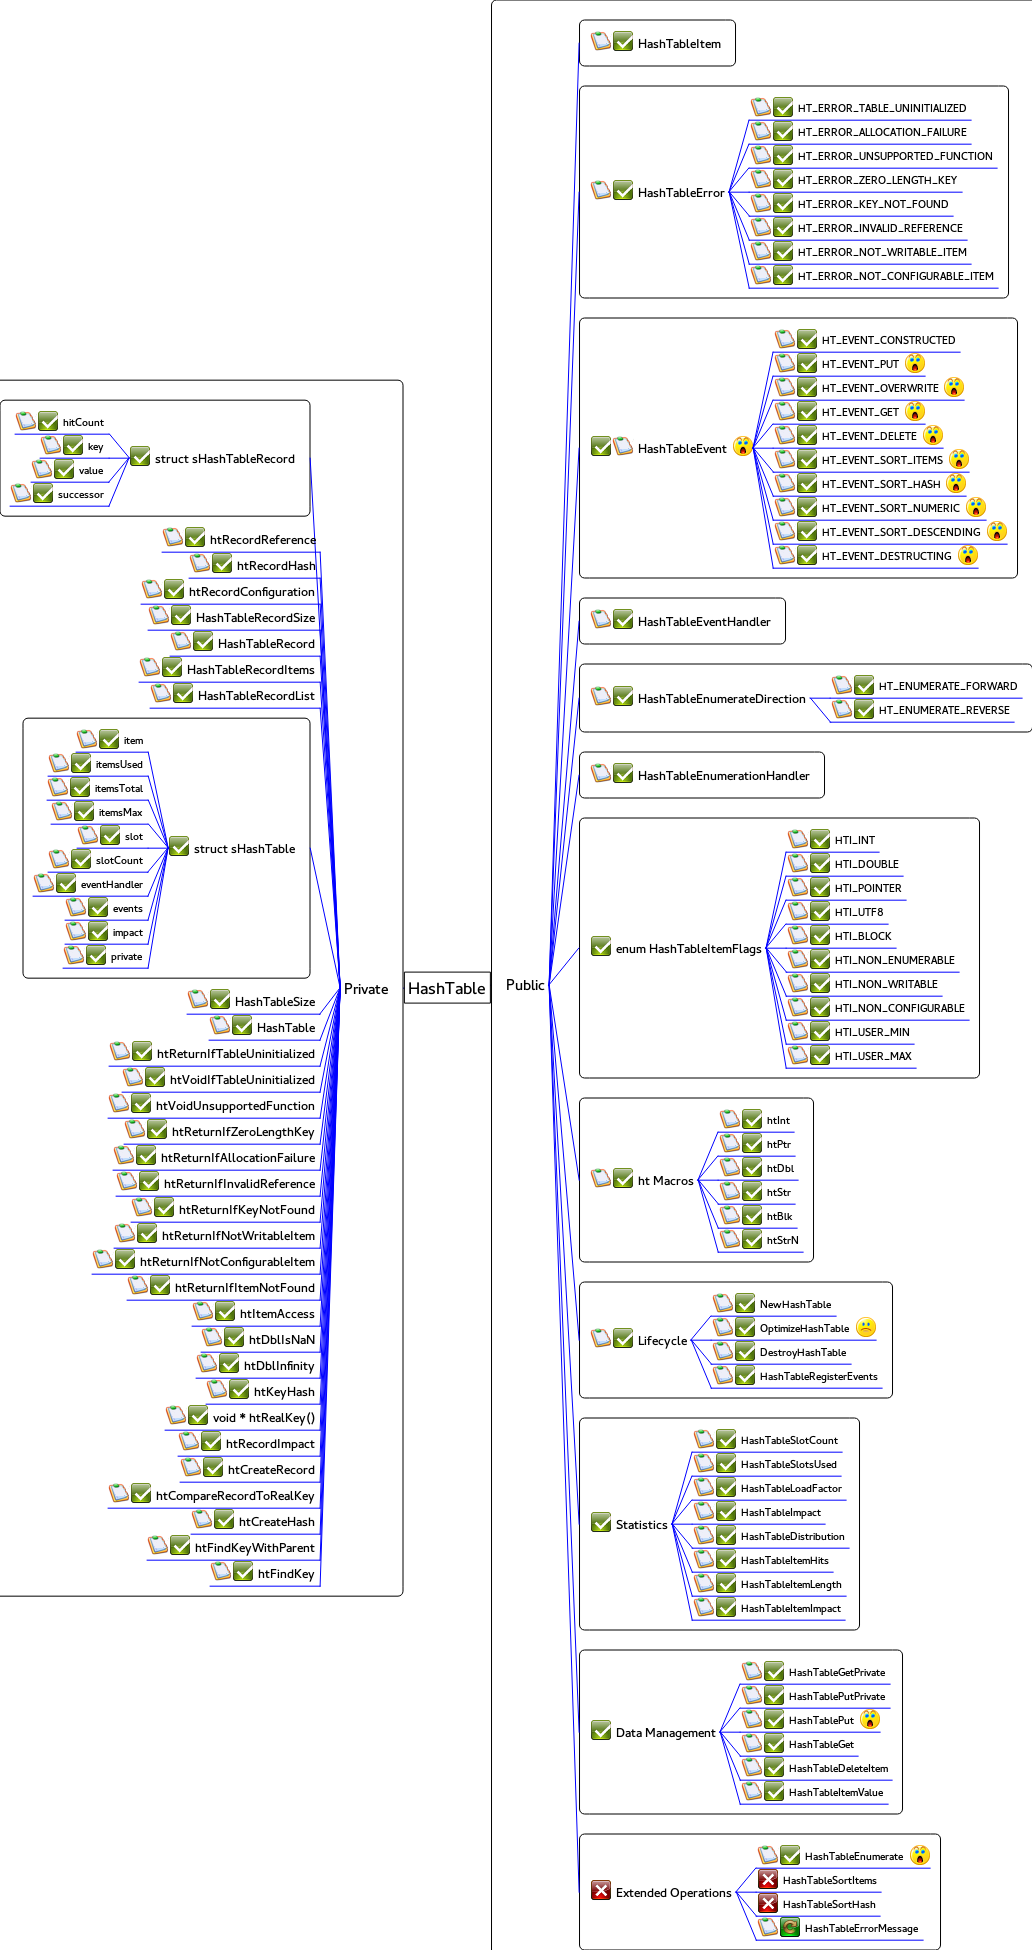
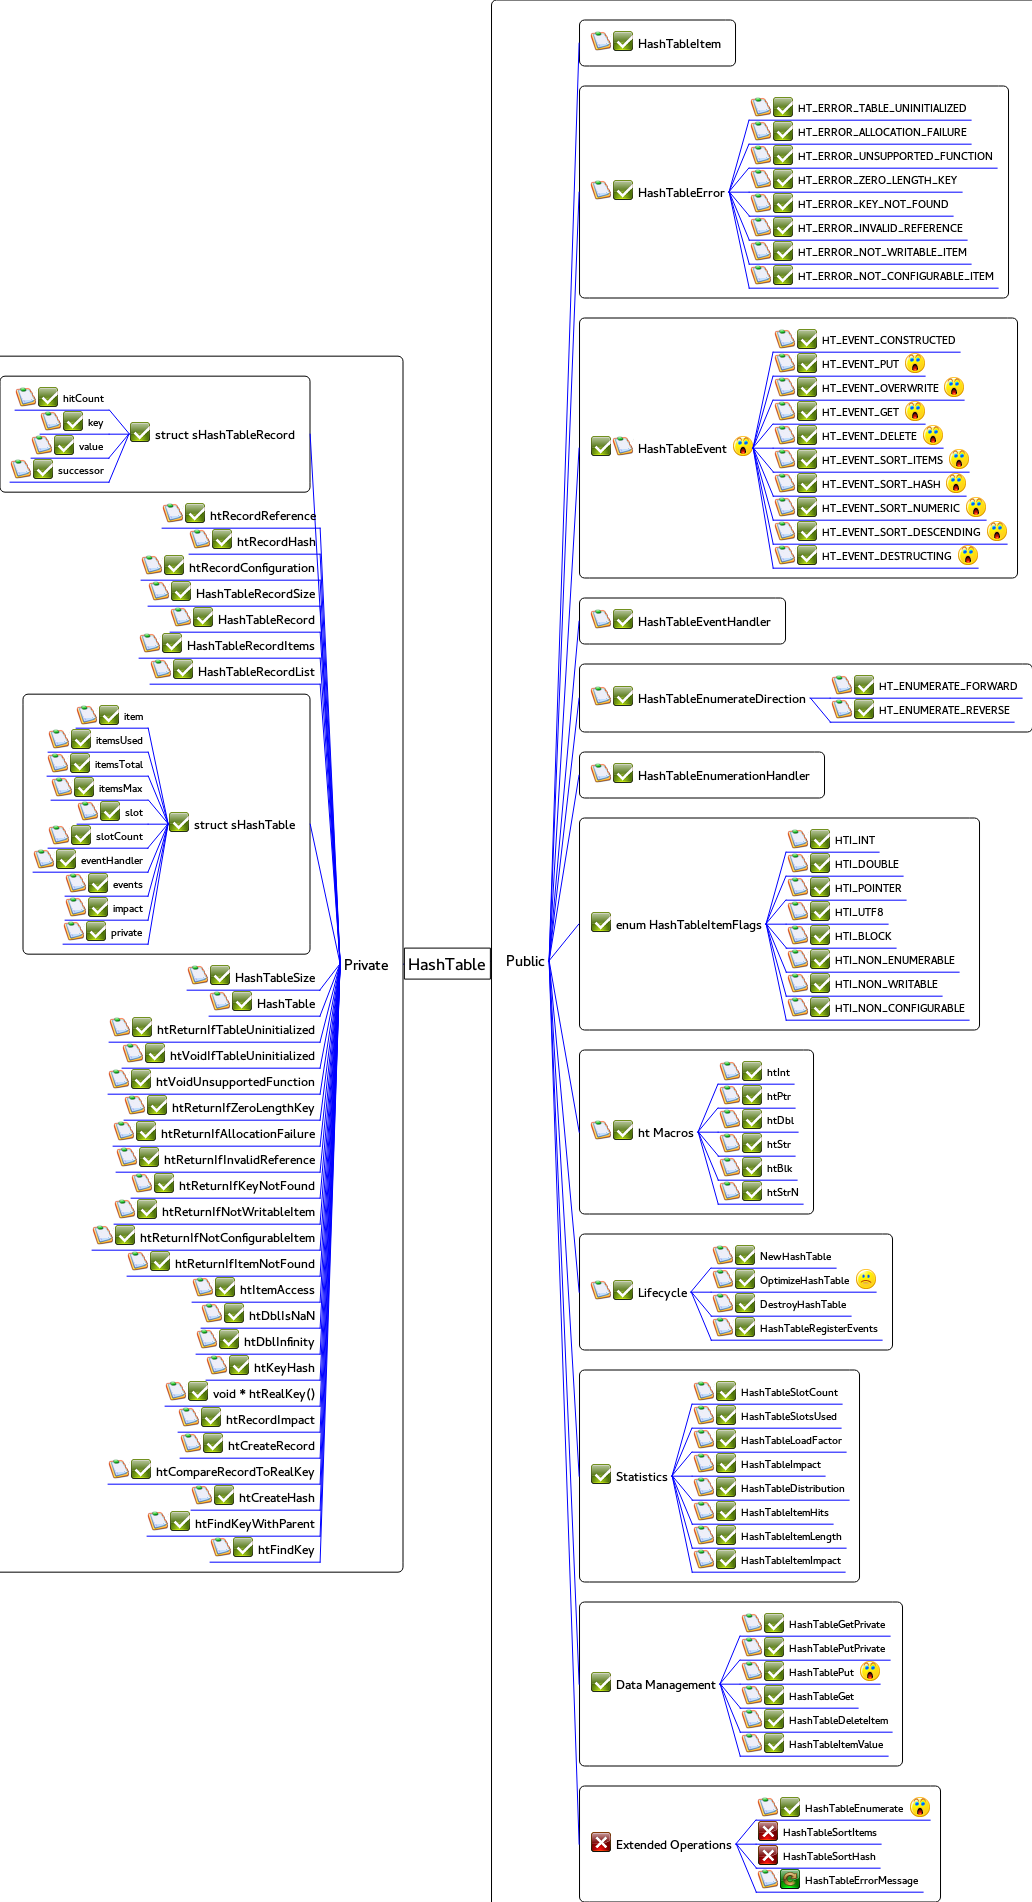
Synchronized HashTableItem flags with documentation

diff --git a/HashTable.html b/HashTable.html
@@ -179,16 +179,6 @@ size_t HTI_NON_WRITABLE<br/><br/>Do not overwrite.<br/>
 size_t HTI_NON_CONFIGURABLE<br/><br/>Do not delete, do not modify enumerable or configurable.<br/>
 </td></tr></table>
 </li>
-<li><span class='vym-branch3'  id='mc:0,bo:0,bo:6,bo:8'>HTI_USER_MIN</span>
-<table class="vym-note"><tr><td>
-size_t HTI_USER_MIN<br/><br/>The first available flag for implementation defiend use.<br/>
-</td></tr></table>
-</li>
-<li><span class='vym-branch3'  id='mc:0,bo:0,bo:6,bo:9'>HTI_USER_MAX</span>
-<table class="vym-note"><tr><td>
-size_t HTI_USER_MAX<br/><br/>The last available flag for implementation defined use.<br/>
-</td></tr></table>
-</li>
 </ul>
 </li>
 <li><span class='vym-branch2'  id='mc:0,bo:0,bo:7'>ht Macros</span>
@@ -579,8 +569,8 @@ HashTableRecord htFindKey(HashTable table, size_t keyLength, void * realKey)<br/
 </li>
 </ul>
 <map name='imagemap'>
-  <area shape='rect' coords='404.38,972.107,490.38,1003.11' href='#mc:0'>
-  <area shape='rect' coords='501.529,970.5,549.529,999.5' href='#mc:0,bo:0'>
+  <area shape='rect' coords='404.38,948.107,490.38,979.107' href='#mc:0'>
+  <area shape='rect' coords='501.529,946.5,549.529,975.5' href='#mc:0,bo:0'>
   <area shape='rect' coords='633.529,30,725.529,56' href='#mc:0,bo:0,bo:0'>
   <area shape='rect' coords='633.529,179,729.529,205' href='#mc:0,bo:0,bo:1'>
   <area shape='rect' coords='793.529,96,971.529,120' href='#mc:0,bo:0,bo:1,bo:0'>
@@ -607,7 +597,7 @@ HashTableRecord htFindKey(HashTable table, size_t keyLength, void * realKey)<br/
   <area shape='rect' coords='874.529,674,1022.53,698' href='#mc:0,bo:0,bo:4,bo:0'>
   <area shape='rect' coords='874.529,698,1014.53,722' href='#mc:0,bo:0,bo:4,bo:1'>
   <area shape='rect' coords='633.529,762,814.529,788' href='#mc:0,bo:0,bo:5'>
-  <area shape='rect' coords='611.529,935,766.529,961' href='#mc:0,bo:0,bo:6'>
+  <area shape='rect' coords='611.529,911,766.529,937' href='#mc:0,bo:0,bo:6'>
   <area shape='rect' coords='830.529,828,879.529,852' href='#mc:0,bo:0,bo:6,bo:0'>
   <area shape='rect' coords='830.529,852,903.529,876' href='#mc:0,bo:0,bo:6,bo:1'>
   <area shape='rect' coords='830.529,876,906.529,900' href='#mc:0,bo:0,bo:6,bo:2'>
@@ -616,88 +606,86 @@ HashTableRecord htFindKey(HashTable table, size_t keyLength, void * realKey)<br/
   <area shape='rect' coords='830.529,948,959.529,972' href='#mc:0,bo:0,bo:6,bo:5'>
   <area shape='rect' coords='830.529,972,942.529,996' href='#mc:0,bo:0,bo:6,bo:6'>
   <area shape='rect' coords='830.529,996,969.529,1020' href='#mc:0,bo:0,bo:6,bo:7'>
-  <area shape='rect' coords='830.529,1020,914.529,1044' href='#mc:0,bo:0,bo:6,bo:8'>
-  <area shape='rect' coords='830.529,1044,916.529,1068' href='#mc:0,bo:0,bo:6,bo:9'>
-  <area shape='rect' coords='633.529,1167,698.529,1193' href='#mc:0,bo:0,bo:7'>
-  <area shape='rect' coords='762.529,1108,794.529,1132' href='#mc:0,bo:0,bo:7,bo:0'>
-  <area shape='rect' coords='762.529,1132,795.529,1156' href='#mc:0,bo:0,bo:7,bo:1'>
-  <area shape='rect' coords='762.529,1156,798.529,1180' href='#mc:0,bo:0,bo:7,bo:2'>
-  <area shape='rect' coords='762.529,1180,795.529,1204' href='#mc:0,bo:0,bo:7,bo:3'>
-  <area shape='rect' coords='762.529,1204,797.529,1228' href='#mc:0,bo:0,bo:7,bo:4'>
-  <area shape='rect' coords='762.529,1228,803.529,1252' href='#mc:0,bo:0,bo:7,bo:5'>
-  <area shape='rect' coords='633.529,1327,691.529,1353' href='#mc:0,bo:0,bo:8'>
-  <area shape='rect' coords='755.529,1292,836.529,1316' href='#mc:0,bo:0,bo:8,bo:0'>
-  <area shape='rect' coords='755.529,1316,854.529,1340' href='#mc:0,bo:0,bo:8,bo:1'>
-  <area shape='rect' coords='755.529,1340,851.529,1364' href='#mc:0,bo:0,bo:8,bo:2'>
-  <area shape='rect' coords='755.529,1364,882.529,1388' href='#mc:0,bo:0,bo:8,bo:3'>
-  <area shape='rect' coords='611.529,1511,672.529,1537' href='#mc:0,bo:0,bo:9'>
-  <area shape='rect' coords='736.529,1428,842.529,1452' href='#mc:0,bo:0,bo:9,bo:0'>
-  <area shape='rect' coords='736.529,1452,841.529,1476' href='#mc:0,bo:0,bo:9,bo:1'>
-  <area shape='rect' coords='736.529,1476,846.529,1500' href='#mc:0,bo:0,bo:9,bo:2'>
-  <area shape='rect' coords='736.529,1500,825.529,1524' href='#mc:0,bo:0,bo:9,bo:3'>
-  <area shape='rect' coords='736.529,1524,849.529,1548' href='#mc:0,bo:0,bo:9,bo:4'>
-  <area shape='rect' coords='736.529,1548,833.529,1572' href='#mc:0,bo:0,bo:9,bo:5'>
-  <area shape='rect' coords='736.529,1572,846.529,1596' href='#mc:0,bo:0,bo:9,bo:6'>
-  <area shape='rect' coords='736.529,1596,845.529,1620' href='#mc:0,bo:0,bo:9,bo:7'>
-  <area shape='rect' coords='611.529,1719,720.529,1745' href='#mc:0,bo:0,bo:10'>
-  <area shape='rect' coords='784.529,1660,890.529,1684' href='#mc:0,bo:0,bo:10,bo:0'>
-  <area shape='rect' coords='784.529,1684,890.529,1708' href='#mc:0,bo:0,bo:10,bo:1'>
-  <area shape='rect' coords='784.529,1708,858.529,1732' href='#mc:0,bo:0,bo:10,bo:2'>
-  <area shape='rect' coords='784.529,1732,858.529,1756' href='#mc:0,bo:0,bo:10,bo:3'>
-  <area shape='rect' coords='784.529,1756,892.529,1780' href='#mc:0,bo:0,bo:10,bo:4'>
-  <area shape='rect' coords='784.529,1780,888.529,1804' href='#mc:0,bo:0,bo:10,bo:5'>
-  <area shape='rect' coords='611.529,1879,736.529,1905' href='#mc:0,bo:0,bo:11'>
-  <area shape='rect' coords='800.529,1844,908.529,1868' href='#mc:0,bo:0,bo:11,bo:0'>
-  <area shape='rect' coords='778.529,1868,881.529,1892' href='#mc:0,bo:0,bo:11,bo:1'>
-  <area shape='rect' coords='778.529,1892,880.529,1916' href='#mc:0,bo:0,bo:11,bo:2'>
-  <area shape='rect' coords='800.529,1916,923.529,1940' href='#mc:0,bo:0,bo:11,bo:3'>
-  <area shape='rect' coords='340,973.664,393,1002.66' href='#mc:0,bo:1'>
-  <area shape='rect' coords='151,445.164,300,471.164' href='#mc:0,bo:1,bo:0'>
-  <area shape='rect' coords='59,410.164,109,434.164' href='#mc:0,bo:1,bo:0,bo:0'>
-  <area shape='rect' coords='84,434.164,109,458.164' href='#mc:0,bo:1,bo:0,bo:1'>
-  <area shape='rect' coords='75,458.164,109,482.164' href='#mc:0,bo:1,bo:0,bo:2'>
-  <area shape='rect' coords='54,482.164,109,506.164' href='#mc:0,bo:1,bo:0,bo:3'>
-  <area shape='rect' coords='206,526.164,320,552.164' href='#mc:0,bo:1,bo:1'>
-  <area shape='rect' coords='233,552.164,320,578.164' href='#mc:0,bo:1,bo:2'>
-  <area shape='rect' coords='185,578.164,320,604.164' href='#mc:0,bo:1,bo:3'>
-  <area shape='rect' coords='192,604.164,320,630.164' href='#mc:0,bo:1,bo:4'>
-  <area shape='rect' coords='214,630.164,320,656.164' href='#mc:0,bo:1,bo:5'>
-  <area shape='rect' coords='183,656.164,320,682.164' href='#mc:0,bo:1,bo:6'>
-  <area shape='rect' coords='194,682.164,320,708.164' href='#mc:0,bo:1,bo:7'>
-  <area shape='rect' coords='190,835.164,300,861.164' href='#mc:0,bo:1,bo:8'>
-  <area shape='rect' coords='120,728.164,148,752.164' href='#mc:0,bo:1,bo:8,bo:0'>
-  <area shape='rect' coords='92,752.164,148,776.164' href='#mc:0,bo:1,bo:8,bo:1'>
-  <area shape='rect' coords='91,776.164,148,800.164' href='#mc:0,bo:1,bo:8,bo:2'>
-  <area shape='rect' coords='95,800.164,148,824.164' href='#mc:0,bo:1,bo:8,bo:3'>
-  <area shape='rect' coords='121,824.164,148,848.164' href='#mc:0,bo:1,bo:8,bo:4'>
-  <area shape='rect' coords='92,848.164,148,872.164' href='#mc:0,bo:1,bo:8,bo:5'>
-  <area shape='rect' coords='77,872.164,148,896.164' href='#mc:0,bo:1,bo:8,bo:6'>
-  <area shape='rect' coords='109,896.164,148,920.164' href='#mc:0,bo:1,bo:8,bo:7'>
-  <area shape='rect' coords='109,920.164,148,944.164' href='#mc:0,bo:1,bo:8,bo:8'>
-  <area shape='rect' coords='107,944.164,148,968.164' href='#mc:0,bo:1,bo:8,bo:9'>
-  <area shape='rect' coords='231,988.164,320,1014.16' href='#mc:0,bo:1,bo:9'>
-  <area shape='rect' coords='253,1014.16,320,1040.16' href='#mc:0,bo:1,bo:10'>
-  <area shape='rect' coords='153,1040.16,320,1066.16' href='#mc:0,bo:1,bo:11'>
-  <area shape='rect' coords='166,1066.16,320,1092.16' href='#mc:0,bo:1,bo:12'>
-  <area shape='rect' coords='152,1092.16,320,1118.16' href='#mc:0,bo:1,bo:13'>
-  <area shape='rect' coords='168,1118.16,320,1144.16' href='#mc:0,bo:1,bo:14'>
-  <area shape='rect' coords='157,1144.16,320,1170.16' href='#mc:0,bo:1,bo:15'>
-  <area shape='rect' coords='160,1170.16,320,1196.16' href='#mc:0,bo:1,bo:16'>
-  <area shape='rect' coords='175,1196.16,320,1222.16' href='#mc:0,bo:1,bo:17'>
-  <area shape='rect' coords='158,1222.16,320,1248.16' href='#mc:0,bo:1,bo:18'>
-  <area shape='rect' coords='136,1248.16,320,1274.16' href='#mc:0,bo:1,bo:19'>
-  <area shape='rect' coords='171,1274.16,320,1300.16' href='#mc:0,bo:1,bo:20'>
-  <area shape='rect' coords='236,1300.16,320,1326.16' href='#mc:0,bo:1,bo:21'>
-  <area shape='rect' coords='245,1326.16,320,1352.16' href='#mc:0,bo:1,bo:22'>
-  <area shape='rect' coords='240,1352.16,320,1378.16' href='#mc:0,bo:1,bo:23'>
-  <area shape='rect' coords='250,1378.16,320,1404.16' href='#mc:0,bo:1,bo:24'>
-  <area shape='rect' coords='209,1404.16,320,1430.16' href='#mc:0,bo:1,bo:25'>
-  <area shape='rect' coords='222,1430.16,320,1456.16' href='#mc:0,bo:1,bo:26'>
-  <area shape='rect' coords='224,1456.16,320,1482.16' href='#mc:0,bo:1,bo:27'>
-  <area shape='rect' coords='152,1482.16,320,1508.16' href='#mc:0,bo:1,bo:28'>
-  <area shape='rect' coords='235,1508.16,320,1534.16' href='#mc:0,bo:1,bo:29'>
-  <area shape='rect' coords='191,1534.16,320,1560.16' href='#mc:0,bo:1,bo:30'>
-  <area shape='rect' coords='254,1560.16,320,1586.16' href='#mc:0,bo:1,bo:31'>
+  <area shape='rect' coords='633.529,1119,698.529,1145' href='#mc:0,bo:0,bo:7'>
+  <area shape='rect' coords='762.529,1060,794.529,1084' href='#mc:0,bo:0,bo:7,bo:0'>
+  <area shape='rect' coords='762.529,1084,795.529,1108' href='#mc:0,bo:0,bo:7,bo:1'>
+  <area shape='rect' coords='762.529,1108,798.529,1132' href='#mc:0,bo:0,bo:7,bo:2'>
+  <area shape='rect' coords='762.529,1132,795.529,1156' href='#mc:0,bo:0,bo:7,bo:3'>
+  <area shape='rect' coords='762.529,1156,797.529,1180' href='#mc:0,bo:0,bo:7,bo:4'>
+  <area shape='rect' coords='762.529,1180,803.529,1204' href='#mc:0,bo:0,bo:7,bo:5'>
+  <area shape='rect' coords='633.529,1279,691.529,1305' href='#mc:0,bo:0,bo:8'>
+  <area shape='rect' coords='755.529,1244,836.529,1268' href='#mc:0,bo:0,bo:8,bo:0'>
+  <area shape='rect' coords='755.529,1268,854.529,1292' href='#mc:0,bo:0,bo:8,bo:1'>
+  <area shape='rect' coords='755.529,1292,851.529,1316' href='#mc:0,bo:0,bo:8,bo:2'>
+  <area shape='rect' coords='755.529,1316,882.529,1340' href='#mc:0,bo:0,bo:8,bo:3'>
+  <area shape='rect' coords='611.529,1463,672.529,1489' href='#mc:0,bo:0,bo:9'>
+  <area shape='rect' coords='736.529,1380,842.529,1404' href='#mc:0,bo:0,bo:9,bo:0'>
+  <area shape='rect' coords='736.529,1404,841.529,1428' href='#mc:0,bo:0,bo:9,bo:1'>
+  <area shape='rect' coords='736.529,1428,846.529,1452' href='#mc:0,bo:0,bo:9,bo:2'>
+  <area shape='rect' coords='736.529,1452,825.529,1476' href='#mc:0,bo:0,bo:9,bo:3'>
+  <area shape='rect' coords='736.529,1476,849.529,1500' href='#mc:0,bo:0,bo:9,bo:4'>
+  <area shape='rect' coords='736.529,1500,833.529,1524' href='#mc:0,bo:0,bo:9,bo:5'>
+  <area shape='rect' coords='736.529,1524,846.529,1548' href='#mc:0,bo:0,bo:9,bo:6'>
+  <area shape='rect' coords='736.529,1548,845.529,1572' href='#mc:0,bo:0,bo:9,bo:7'>
+  <area shape='rect' coords='611.529,1671,720.529,1697' href='#mc:0,bo:0,bo:10'>
+  <area shape='rect' coords='784.529,1612,890.529,1636' href='#mc:0,bo:0,bo:10,bo:0'>
+  <area shape='rect' coords='784.529,1636,890.529,1660' href='#mc:0,bo:0,bo:10,bo:1'>
+  <area shape='rect' coords='784.529,1660,858.529,1684' href='#mc:0,bo:0,bo:10,bo:2'>
+  <area shape='rect' coords='784.529,1684,858.529,1708' href='#mc:0,bo:0,bo:10,bo:3'>
+  <area shape='rect' coords='784.529,1708,892.529,1732' href='#mc:0,bo:0,bo:10,bo:4'>
+  <area shape='rect' coords='784.529,1732,888.529,1756' href='#mc:0,bo:0,bo:10,bo:5'>
+  <area shape='rect' coords='611.529,1831,736.529,1857' href='#mc:0,bo:0,bo:11'>
+  <area shape='rect' coords='800.529,1796,908.529,1820' href='#mc:0,bo:0,bo:11,bo:0'>
+  <area shape='rect' coords='778.529,1820,881.529,1844' href='#mc:0,bo:0,bo:11,bo:1'>
+  <area shape='rect' coords='778.529,1844,880.529,1868' href='#mc:0,bo:0,bo:11,bo:2'>
+  <area shape='rect' coords='800.529,1868,923.529,1892' href='#mc:0,bo:0,bo:11,bo:3'>
+  <area shape='rect' coords='340,949.664,393,978.664' href='#mc:0,bo:1'>
+  <area shape='rect' coords='151,421.164,300,447.164' href='#mc:0,bo:1,bo:0'>
+  <area shape='rect' coords='59,386.164,109,410.164' href='#mc:0,bo:1,bo:0,bo:0'>
+  <area shape='rect' coords='84,410.164,109,434.164' href='#mc:0,bo:1,bo:0,bo:1'>
+  <area shape='rect' coords='75,434.164,109,458.164' href='#mc:0,bo:1,bo:0,bo:2'>
+  <area shape='rect' coords='54,458.164,109,482.164' href='#mc:0,bo:1,bo:0,bo:3'>
+  <area shape='rect' coords='206,502.164,320,528.164' href='#mc:0,bo:1,bo:1'>
+  <area shape='rect' coords='233,528.164,320,554.164' href='#mc:0,bo:1,bo:2'>
+  <area shape='rect' coords='185,554.164,320,580.164' href='#mc:0,bo:1,bo:3'>
+  <area shape='rect' coords='192,580.164,320,606.164' href='#mc:0,bo:1,bo:4'>
+  <area shape='rect' coords='214,606.164,320,632.164' href='#mc:0,bo:1,bo:5'>
+  <area shape='rect' coords='183,632.164,320,658.164' href='#mc:0,bo:1,bo:6'>
+  <area shape='rect' coords='194,658.164,320,684.164' href='#mc:0,bo:1,bo:7'>
+  <area shape='rect' coords='190,811.164,300,837.164' href='#mc:0,bo:1,bo:8'>
+  <area shape='rect' coords='120,704.164,148,728.164' href='#mc:0,bo:1,bo:8,bo:0'>
+  <area shape='rect' coords='92,728.164,148,752.164' href='#mc:0,bo:1,bo:8,bo:1'>
+  <area shape='rect' coords='91,752.164,148,776.164' href='#mc:0,bo:1,bo:8,bo:2'>
+  <area shape='rect' coords='95,776.164,148,800.164' href='#mc:0,bo:1,bo:8,bo:3'>
+  <area shape='rect' coords='121,800.164,148,824.164' href='#mc:0,bo:1,bo:8,bo:4'>
+  <area shape='rect' coords='92,824.164,148,848.164' href='#mc:0,bo:1,bo:8,bo:5'>
+  <area shape='rect' coords='77,848.164,148,872.164' href='#mc:0,bo:1,bo:8,bo:6'>
+  <area shape='rect' coords='109,872.164,148,896.164' href='#mc:0,bo:1,bo:8,bo:7'>
+  <area shape='rect' coords='109,896.164,148,920.164' href='#mc:0,bo:1,bo:8,bo:8'>
+  <area shape='rect' coords='107,920.164,148,944.164' href='#mc:0,bo:1,bo:8,bo:9'>
+  <area shape='rect' coords='231,964.164,320,990.164' href='#mc:0,bo:1,bo:9'>
+  <area shape='rect' coords='253,990.164,320,1016.16' href='#mc:0,bo:1,bo:10'>
+  <area shape='rect' coords='153,1016.16,320,1042.16' href='#mc:0,bo:1,bo:11'>
+  <area shape='rect' coords='166,1042.16,320,1068.16' href='#mc:0,bo:1,bo:12'>
+  <area shape='rect' coords='152,1068.16,320,1094.16' href='#mc:0,bo:1,bo:13'>
+  <area shape='rect' coords='168,1094.16,320,1120.16' href='#mc:0,bo:1,bo:14'>
+  <area shape='rect' coords='157,1120.16,320,1146.16' href='#mc:0,bo:1,bo:15'>
+  <area shape='rect' coords='160,1146.16,320,1172.16' href='#mc:0,bo:1,bo:16'>
+  <area shape='rect' coords='175,1172.16,320,1198.16' href='#mc:0,bo:1,bo:17'>
+  <area shape='rect' coords='158,1198.16,320,1224.16' href='#mc:0,bo:1,bo:18'>
+  <area shape='rect' coords='136,1224.16,320,1250.16' href='#mc:0,bo:1,bo:19'>
+  <area shape='rect' coords='171,1250.16,320,1276.16' href='#mc:0,bo:1,bo:20'>
+  <area shape='rect' coords='236,1276.16,320,1302.16' href='#mc:0,bo:1,bo:21'>
+  <area shape='rect' coords='245,1302.16,320,1328.16' href='#mc:0,bo:1,bo:22'>
+  <area shape='rect' coords='240,1328.16,320,1354.16' href='#mc:0,bo:1,bo:23'>
+  <area shape='rect' coords='250,1354.16,320,1380.16' href='#mc:0,bo:1,bo:24'>
+  <area shape='rect' coords='209,1380.16,320,1406.16' href='#mc:0,bo:1,bo:25'>
+  <area shape='rect' coords='222,1406.16,320,1432.16' href='#mc:0,bo:1,bo:26'>
+  <area shape='rect' coords='224,1432.16,320,1458.16' href='#mc:0,bo:1,bo:27'>
+  <area shape='rect' coords='152,1458.16,320,1484.16' href='#mc:0,bo:1,bo:28'>
+  <area shape='rect' coords='235,1484.16,320,1510.16' href='#mc:0,bo:1,bo:29'>
+  <area shape='rect' coords='191,1510.16,320,1536.16' href='#mc:0,bo:1,bo:30'>
+  <area shape='rect' coords='254,1536.16,320,1562.16' href='#mc:0,bo:1,bo:31'>
 </map>
 <hr/>
 <table class="vym-footer">   

diff --git a/src/HashTable.c b/src/HashTable.c
@@ -105,12 +105,12 @@ typedef struct sHashTable {
 	if ( ! (i) ) { errno = HT_ERROR_KEY_NOT_FOUND; return 0; }
 
 #define htReturnIfNotWritableItem(i) \
-if (htRecordConfiguration(i) & HTR_NON_WRITABLE) { \
+if (htRecordConfiguration(i) & HTI_NON_WRITABLE) { \
 	errno = HT_ERROR_NOT_WRITABLE_ITEM; return 0; \
 }
 
 #define htReturnIfNotConfigurableItem(i) \
-if (htRecordConfiguration(i) & HTR_NON_CONFIGURABLE) { \
+if (htRecordConfiguration(i) & HTI_NON_CONFIGURABLE) { \
 	errno = HT_ERROR_NOT_CONFIGURABLE_ITEM; return 0; \
 }
 
@@ -136,10 +136,10 @@ if (htRecordConfiguration(i) & HTR_NON_CONFIGURABLE) { \
 
 /* scan UTF strings for length if not supplied, and return FAIL if empty */
 #define __htKeyLength(l, v, h) if ( ! l ) { \
-	if (h & HTR_UTF8) l = strlen(ptrVar(v)); \
+	if (h & HTI_UTF8) l = strlen(ptrVar(v)); \
 }
 
-#define htRealKey(l, v, h) (h & HTR_DOUBLE)?&v:ptrVar(v); __htKeyLength(l, v, h)
+#define htRealKey(l, v, h) (h & HTI_DOUBLE)?&v:ptrVar(v); __htKeyLength(l, v, h)
 
 #define htCompareRecordToRealKey(e, l, k) \
 	(varlen(e->key) == l) && (memcmp(e->key, k, l) == 0)
@@ -400,7 +400,7 @@ HashTableItem HashTablePut
 	htReturnIfZeroLengthKey(keyLength);
 
 	if (!valueLength) {
-		if (valueHint & HTR_UTF8) valueLength = strlen(ptrVar(value));
+		if (valueHint & HTI_UTF8) valueLength = strlen(ptrVar(value));
 	}
 
 	size_t index = htKeyHash(ht, keyLength, realKey);
@@ -512,20 +512,20 @@ void HashTableEnumerate
 	if (direction == HT_ENUMERATE_FORWARD) {
 		for (index = 0; index < maximum; index++) {
 			item = ht->item[index];
-			if (item && ! (htRecordConfiguration(item) & HTR_NON_ENUMERABLE)) {
+			if (item && ! (htRecordConfiguration(item) & HTI_NON_ENUMERABLE)) {
 				if ( ! handler(ht, direction, index, private) ) break;
 			}
 		}
 	} else {
 		for (index = (maximum - 1); index != 0; index--) {
 			item = ht->item[index];
-			if (item && ! (htRecordConfiguration(item) & HTR_NON_ENUMERABLE)) {
+			if (item && ! (htRecordConfiguration(item) & HTI_NON_ENUMERABLE)) {
 				if ( ! handler(ht, direction, index, private) ) break;
 			}
 		}
 		/* manually enumerate the last item (0) */
 		item = ht->item[0];
-		if (item && ! (htRecordConfiguration(item) & HTR_NON_ENUMERABLE)) {
+		if (item && ! (htRecordConfiguration(item) & HTI_NON_ENUMERABLE)) {
 			if ( ! handler(ht, direction, index, private) ) break;
 		}
 	}

diff --git a/src/HashTable.h b/src/HashTable.h
@@ -76,27 +76,27 @@ typedef bool (*HashTableEnumerationHandler)
 	void * private
 );
 
-typedef enum eHashTableRecordFlags {
-	HTR_INT              = HashTableBitFlag(1),
-	HTR_DOUBLE           = HashTableBitFlag(2),
-	HTR_POINTER          = HashTableBitFlag(3),
-	HTR_UTF8             = HashTableBitFlag(4),
-	HTR_BLOCK            = HashTableBitFlag(5),
-	HTR_NON_ENUMERABLE   = HashTableBitFlag(6),
-	HTR_NON_WRITABLE     = HashTableBitFlag(7),
-	HTR_NON_CONFIGURABLE = HashTableBitFlag(8),
+typedef enum eHashTableItemFlags {
+	HTI_INT              = HashTableBitFlag(1),
+	HTI_DOUBLE           = HashTableBitFlag(2),
+	HTI_POINTER          = HashTableBitFlag(3),
+	HTI_UTF8             = HashTableBitFlag(4),
+	HTI_BLOCK            = HashTableBitFlag(5),
+	HTI_NON_ENUMERABLE   = HashTableBitFlag(6),
+	HTI_NON_WRITABLE     = HashTableBitFlag(7),
+	HTI_NON_CONFIGURABLE = HashTableBitFlag(8),
 } HashTableItemFlags;
 
 /* cast integer things to double */
 #define htIntVal(i) ((double)(uint)(i))
 
 /* Quick value parameter generators */
-#define htInt(i) sizeof(uint), htIntVal(i), HTR_INT
-#define htPtr(p) sizeof(void *), htIntVal(p), HTR_POINTER
-#define htDbl(d) sizeof(double), d, HTR_DOUBLE
-#define htStr(s) 0, htIntVal(s), HTR_UTF8
-#define htBlk(p, s) s, htIntVal((void*)p), HTR_BLOCK
-#define htStrN(s, l) l, htIntVal(s), HTR_UTF8
+#define htInt(i) sizeof(uint), htIntVal(i), HTI_INT
+#define htPtr(p) sizeof(void *), htIntVal(p), HTI_POINTER
+#define htDbl(d) sizeof(double), d, HTI_DOUBLE
+#define htStr(s) 0, htIntVal(s), HTI_UTF8
+#define htBlk(p, s) s, htIntVal((void*)p), HTI_BLOCK
+#define htStrN(s, l) l, htIntVal(s), HTI_UTF8
 
 #ifdef HashTable_c
 
